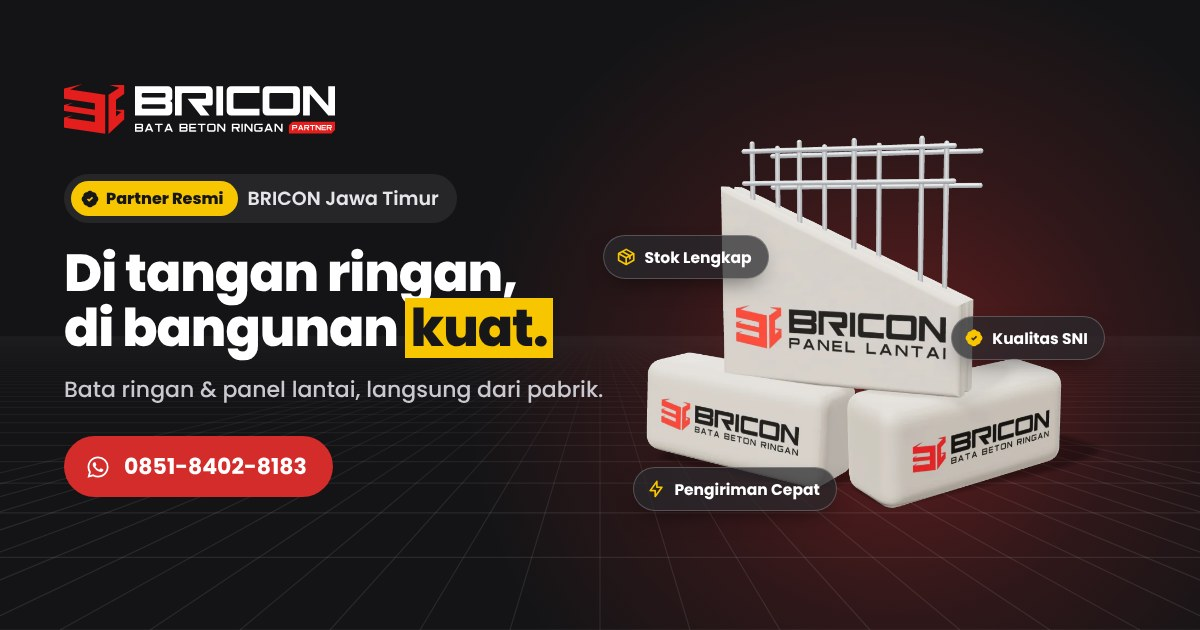
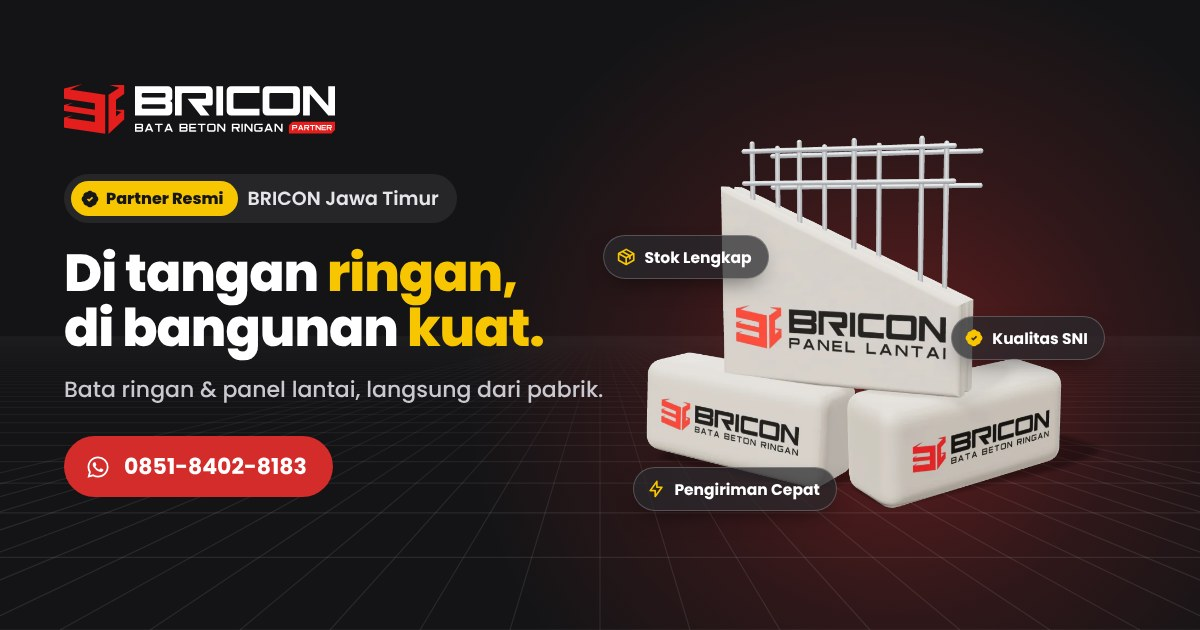
style: headline hero & OG pakai warna kuning di ringan dan kuat
Claude-Session: https://claude.ai/code/session_01XkrxM7aJVBU55g7YgcUYVG

Changed region(s): [[0.2467, 0.3921, 0.4625, 0.573]]

diff --git a/index.html b/index.html
@@ -52,7 +52,7 @@
 <meta property="og:title" content="Bricon Partner — Bata Ringan &amp; Panel Lantai Jawa Timur">
 <meta property="og:description" content="Bata ringan &amp; panel lantai BRICON berteknologi Microbubble. Stok lengkap, pengiriman cepat, kualitas SNI. Konsultasi gratis via WhatsApp.">
 <meta property="og:locale" content="id_ID">
-<meta property="og:image" content="https://bricon-partner.com/assets/og-image.jpg?v=r9">
+<meta property="og:image" content="https://bricon-partner.com/assets/og-image.jpg?v=r9b">
 <meta property="og:image:width" content="1200">
 <meta property="og:image:height" content="630">
 <meta property="og:image:alt" content="Bricon Partner — Bata Ringan &amp; Panel Lantai BRICON Jawa Timur">
@@ -61,7 +61,7 @@
 <meta name="twitter:card" content="summary_large_image">
 <meta name="twitter:title" content="Bricon Partner — Bata Ringan &amp; Panel Lantai Jawa Timur">
 <meta name="twitter:description" content="Bata ringan &amp; panel lantai BRICON berteknologi Microbubble. Stok lengkap, pengiriman cepat, kualitas SNI.">
-<meta name="twitter:image" content="https://bricon-partner.com/assets/og-image.jpg?v=r9">
+<meta name="twitter:image" content="https://bricon-partner.com/assets/og-image.jpg?v=r9b">
 
 <!-- Canonical -->
 <link rel="canonical" href="https://bricon-partner.com/">
@@ -78,7 +78,7 @@
   "alternateName": ["Bata Ringan Bricon Partner"],
   "description": "Bricon Partner — penyedia Bata Ringan & Panel Lantai BRICON berteknologi Microbubble di Jawa Timur. Stok lengkap, pengiriman cepat, kualitas SNI.",
   "url": "https://bricon-partner.com/",
-  "image": "https://bricon-partner.com/assets/og-image.jpg?v=r9",
+  "image": "https://bricon-partner.com/assets/og-image.jpg?v=r9b",
   "logo": "https://bricon-partner.com/assets/images/bricon-partner-logo-square.png?v=20261123",
   "telephone": "+6285184028183",
   "priceRange": "$$",
@@ -858,7 +858,7 @@ body.ready .hA .h1 .stb,.rvjs-off .hA .h1 .stb{background-size:100% 100%;color:v
     <div class="hero-grid">
       <div class="hero-copy">
         <span class="eyebrow"><b><svg><use href="#i-seal"/></svg>Partner Resmi</b>BRICON Jawa Timur</span>
-        <h1 class="h1 d">Di tangan ringan,<br>di bangunan <mark class="stb">kuat.</mark></h1>
+        <h1 class="h1 d">Di tangan <em>ringan,</em><br>di bangunan <em>kuat.</em></h1>
         <p class="lead">Bata ringan &amp; panel lantai BRICON, langsung dari pabrik.<span class="d-only"> Kami kirim pakai truk ke proyekmu di mana pun di Jawa Timur.</span></p>
         <div class="cta-row">
           <button class="btn btn-red" type="button" data-form="hero"><svg><use href="#i-wa"/></svg>Pesan lewat WhatsApp</button>

diff --git a/kota/mojokerto.html b/kota/mojokerto.html
@@ -54,7 +54,7 @@
 <meta property="og:title" content="Bata Ringan Mojokerto — Bricon Partner">
 <meta property="og:description" content="Jual bata ringan &amp; panel lantai Mojokerto berteknologi Microbubble. Harga bersaing, stok lengkap, kirim cepat. Konsultasi gratis via WhatsApp.">
 <meta property="og:locale" content="id_ID">
-<meta property="og:image" content="https://bricon-partner.com/assets/og-image.jpg?v=r9">
+<meta property="og:image" content="https://bricon-partner.com/assets/og-image.jpg?v=r9b">
 <meta property="og:image:width" content="1200">
 <meta property="og:image:height" content="630">
 <meta property="og:image:alt" content="Bricon Partner — Bata Ringan &amp; Panel Lantai Mojokerto">
@@ -63,7 +63,7 @@
 <meta name="twitter:card" content="summary_large_image">
 <meta name="twitter:title" content="Bata Ringan Mojokerto — Bricon Partner">
 <meta name="twitter:description" content="Jual bata ringan &amp; panel lantai Mojokerto berteknologi Microbubble. Harga bersaing, stok lengkap, kirim cepat.">
-<meta name="twitter:image" content="https://bricon-partner.com/assets/og-image.jpg?v=r9">
+<meta name="twitter:image" content="https://bricon-partner.com/assets/og-image.jpg?v=r9b">
 
 <!-- Canonical -->
 <link rel="canonical" href="https://bricon-partner.com/kota/mojokerto">
@@ -81,7 +81,7 @@
   "alternateName": ["Bata Ringan Bricon Partner"],
   "description": "Jual Bata Ringan & Panel Lantai BRICON berteknologi Microbubble di Mojokerto. Stok lengkap, pengiriman cepat, kualitas SNI.",
   "url": "https://bricon-partner.com/kota/mojokerto",
-  "image": "https://bricon-partner.com/assets/og-image.jpg?v=r9",
+  "image": "https://bricon-partner.com/assets/og-image.jpg?v=r9b",
   "logo": "https://bricon-partner.com/assets/images/bricon-partner-logo-square.png?v=20261123",
   "telephone": "+6285184028183",
   "priceRange": "$$",
@@ -855,7 +855,7 @@ body.ready .hA .h1 .stb,.rvjs-off .hA .h1 .stb{background-size:100% 100%;color:v
     <div class="hero-grid">
       <div class="hero-copy">
         <span class="eyebrow"><b><svg><use href="#i-seal"/></svg>Partner Resmi</b>Kirim ke Mojokerto</span>
-        <h1 class="h1 d">Di tangan ringan,<br>di bangunan <mark class="stb">kuat.</mark></h1>
+        <h1 class="h1 d">Di tangan <em>ringan,</em><br>di bangunan <em>kuat.</em></h1>
         <p class="lead">Bata ringan &amp; panel lantai BRICON, langsung dari pabrik.<span class="d-only"> Kami kirim pakai truk langsung ke proyekmu di Mojokerto.</span></p>
         <div class="cta-row">
           <button class="btn btn-red" type="button" data-form="hero"><svg><use href="#i-wa"/></svg>Pesan lewat WhatsApp</button>

diff --git a/kota/surabaya.html b/kota/surabaya.html
@@ -54,7 +54,7 @@
 <meta property="og:title" content="Bata Ringan Surabaya — Bricon Partner">
 <meta property="og:description" content="Jual bata ringan &amp; panel lantai Surabaya berteknologi Microbubble. Harga bersaing, stok lengkap, kirim cepat. Konsultasi gratis via WhatsApp.">
 <meta property="og:locale" content="id_ID">
-<meta property="og:image" content="https://bricon-partner.com/assets/og-image.jpg?v=r9">
+<meta property="og:image" content="https://bricon-partner.com/assets/og-image.jpg?v=r9b">
 <meta property="og:image:width" content="1200">
 <meta property="og:image:height" content="630">
 <meta property="og:image:alt" content="Bricon Partner — Bata Ringan &amp; Panel Lantai Surabaya">
@@ -63,7 +63,7 @@
 <meta name="twitter:card" content="summary_large_image">
 <meta name="twitter:title" content="Bata Ringan Surabaya — Bricon Partner">
 <meta name="twitter:description" content="Jual bata ringan &amp; panel lantai Surabaya berteknologi Microbubble. Harga bersaing, stok lengkap, kirim cepat.">
-<meta name="twitter:image" content="https://bricon-partner.com/assets/og-image.jpg?v=r9">
+<meta name="twitter:image" content="https://bricon-partner.com/assets/og-image.jpg?v=r9b">
 
 <!-- Canonical -->
 <link rel="canonical" href="https://bricon-partner.com/kota/surabaya">
@@ -81,7 +81,7 @@
   "alternateName": ["Bata Ringan Bricon Partner"],
   "description": "Jual Bata Ringan & Panel Lantai BRICON berteknologi Microbubble di Surabaya. Stok lengkap, pengiriman cepat, kualitas SNI.",
   "url": "https://bricon-partner.com/kota/surabaya",
-  "image": "https://bricon-partner.com/assets/og-image.jpg?v=r9",
+  "image": "https://bricon-partner.com/assets/og-image.jpg?v=r9b",
   "logo": "https://bricon-partner.com/assets/images/bricon-partner-logo-square.png?v=20261123",
   "telephone": "+6285184028183",
   "priceRange": "$$",
@@ -855,7 +855,7 @@ body.ready .hA .h1 .stb,.rvjs-off .hA .h1 .stb{background-size:100% 100%;color:v
     <div class="hero-grid">
       <div class="hero-copy">
         <span class="eyebrow"><b><svg><use href="#i-seal"/></svg>Partner Resmi</b>Kirim ke Surabaya</span>
-        <h1 class="h1 d">Di tangan ringan,<br>di bangunan <mark class="stb">kuat.</mark></h1>
+        <h1 class="h1 d">Di tangan <em>ringan,</em><br>di bangunan <em>kuat.</em></h1>
         <p class="lead">Bata ringan &amp; panel lantai BRICON, langsung dari pabrik.<span class="d-only"> Kami kirim pakai truk langsung ke proyekmu di Surabaya.</span></p>
         <div class="cta-row">
           <button class="btn btn-red" type="button" data-form="hero"><svg><use href="#i-wa"/></svg>Pesan lewat WhatsApp</button>
